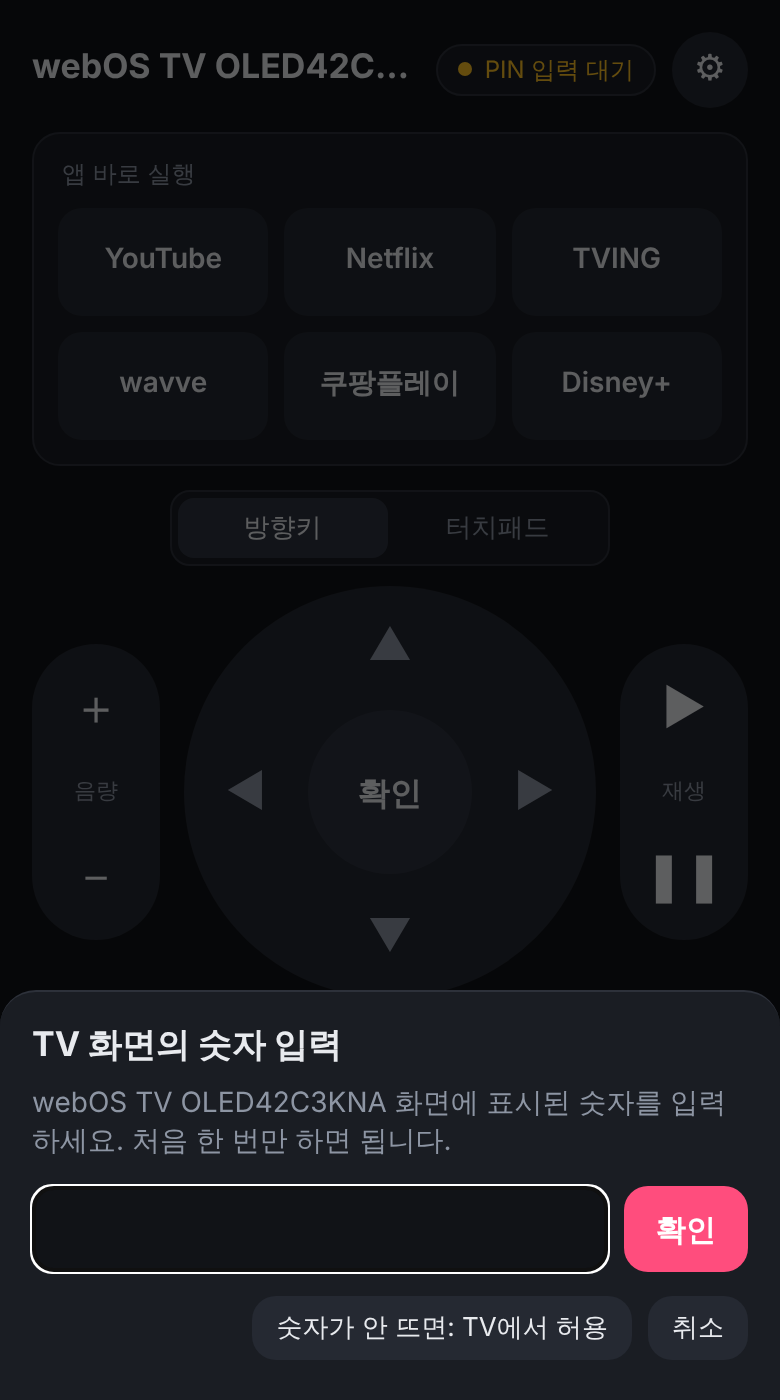
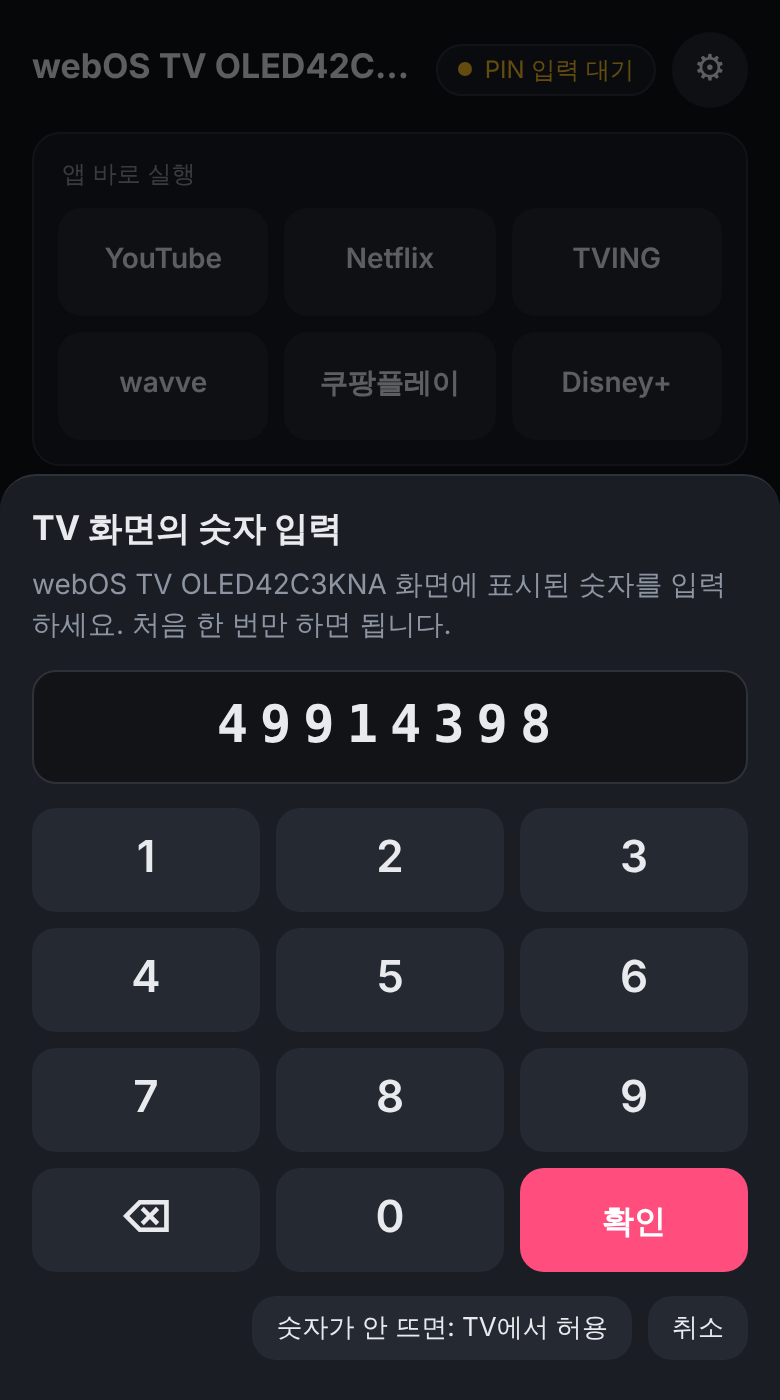
PIN 입력을 화면 숫자판(0~9, ⌫, 확인)으로 — 시스템 키보드를 띄우지 않음
- ⌫ 길게 누르면 전부 지우기, 숫자가 없으면 확인 비활성, 길이 제한 없음(최대 16)
- 실물 키보드 숫자·Backspace·Enter도 받음
- 틀린 PIN 안내 문장 부호 수정, README PIN 이미지·설명 갱신

Claude-Session: https://claude.ai/code/session_01YPuaTDTyQkfxuUHe5zyccf

Changed region(s): [[0.0, 0.3379, 1.0, 0.7371], [0.0308, 0.7371, 0.9538, 0.9214]]

diff --git a/app/src/main/assets/index.html b/app/src/main/assets/index.html
@@ -52,6 +52,14 @@ body.mode-pad .dpad{display:none}
 .tvrow .danger{color:var(--err)}
 .tvrow .danger.armed{background:var(--err);color:#fff}
 .sect{font-size:12px;color:var(--mut);margin:14px 0 8px 2px}
+/* PIN 숫자판 (시스템 키보드 대신) */
+.pinbox{font:600 26px/1.2 ui-monospace,Menlo,Consolas,monospace;letter-spacing:6px;text-align:center;padding:12px;
+  background:var(--bg);border:1px solid var(--line);border-radius:12px;min-height:56px;margin:4px 0 12px;word-break:break-all}
+.pinbox.empty{font:15px/1.9 inherit;letter-spacing:0;color:var(--mut)}
+.keypad{display:grid;grid-template-columns:repeat(3,1fr);gap:8px}
+.keypad button{height:52px;font-size:22px;font-weight:600}
+.keypad .ok{background:var(--acc);color:#fff;font-size:16px}
+.keypad .ok:active{background:#e23d6b}
 .speed{display:flex;align-items:center;gap:10px}
 .speed input{flex:1;padding:0}
 input{flex:1;min-width:0;background:var(--bg);border:1px solid var(--line);color:var(--fg);border-radius:10px;padding:10px 12px;font:inherit;user-select:text;-webkit-user-select:text}
@@ -275,15 +283,33 @@ footer{text-align:center;color:var(--mut);font-size:12px;margin-top:16px}
       '<div class="acts"><button class="btn-sm" data-act="cancel">취소</button></div>');
   }
   // 처음 등록: TV 화면에 뜬 숫자를 입력 (리모컨 불필요). 길이 제한 없음, 숫자만
+  // 숫자판으로 입력 (시스템 키보드를 띄우지 않음)
+  var pinVal = "";
   function showPin(msg) {
     var wrong = msg && msg.indexOf("맞지 않") >= 0;
+    pinVal = "";
+    var keys = ["1", "2", "3", "4", "5", "6", "7", "8", "9"].map(function (k) {
+      return '<button data-key="' + k + '">' + k + "</button>";
+    }).join("") + '<button data-key="back" aria-label="지우기">⌫</button><button data-key="0">0</button>' +
+      '<button class="ok" id="pinOk" data-act="sendPin">확인</button>';
     openSheet("pin", "<h2>TV 화면의 숫자 입력</h2><p>" +
-      esc(wrong ? msg + " 다시 입력하세요." : tvLabel(S.tv) + " 화면에 표시된 숫자를 입력하세요. 처음 한 번만 하면 됩니다.") + "</p>" +
-      '<div style="display:flex;gap:8px"><input id="pin" inputmode="numeric" pattern="[0-9]*" autocomplete="off">' +
-      '<button class="btn-acc" data-act="sendPin">확인</button></div>' +
+      esc(wrong ? msg.replace(/[.\s]*$/, "") + ". 다시 입력하세요." : tvLabel(S.tv) + " 화면에 표시된 숫자를 입력하세요. 처음 한 번만 하면 됩니다.") + "</p>" +
+      '<div class="pinbox" id="pinbox" aria-live="polite"></div><div class="keypad">' + keys + "</div>" +
       '<div class="acts"><button class="btn-sm" data-act="usePrompt">숫자가 안 뜨면: TV에서 허용</button>' +
       '<button class="btn-sm" data-act="cancel">취소</button></div>');
-    setTimeout(function () { var p = $("pin"); if (p) p.focus(); }, 50);
+    renderPin();
+  }
+  function renderPin() {
+    var box = $("pinbox"), ok = $("pinOk");
+    if (!box) return;
+    box.textContent = pinVal || "숫자 버튼을 누르세요";
+    box.classList.toggle("empty", !pinVal);
+    if (ok) ok.disabled = !pinVal;
+  }
+  function pinKey(k) {
+    if (k === "back") pinVal = pinVal.slice(0, -1);
+    else if (/^[0-9]$/.test(k) && pinVal.length < 16) pinVal += k;
+    renderPin();
   }
   // 인증서가 바뀜: 기존 키는 보내지 않고, 다시 등록하면 진짜 TV 화면에만 숫자가 뜬다
   function showCertChanged(d) {
@@ -471,6 +497,10 @@ footer{text-align:center;color:var(--mut);font-size:12px;margin-top:16px}
       showSettings();
       return;
     }
+    if (b.dataset.key) {
+      if (pinCleared) { pinCleared = false; return; }   // 길게 눌러 전부 지운 직후의 클릭은 무시
+      return pinKey(b.dataset.key);
+    }
     if (b.dataset.mode) return setMode(b.dataset.mode);
     if (b.dataset.launch) return call("ssap://system.launcher/launch", { id: b.dataset.launch });
     if (b.dataset.req) return call(b.dataset.req, null);
@@ -496,9 +526,8 @@ footer{text-align:center;color:var(--mut);font-size:12px;margin-top:16px}
       case "close": closeSheet(); break;
       case "cancel": closeSheet(); B.disconnect(); break;
       case "sendPin":
-        var pin = $("pin"), v = pin ? pin.value.replace(/\D/g, "") : "";
-        if (!v) { toast("TV 화면의 숫자를 입력하세요"); break; }
-        B.sendPin(v);
+        if (!pinVal) { toast("TV 화면의 숫자를 입력하세요"); break; }
+        B.sendPin(pinVal);
         break;
       case "usePrompt": closeSheet(); if (S.tv && S.tv.id) { S.conn = "connecting"; render(); B.connectPrompt(S.tv.id); } break;
       case "acceptCert": closeSheet(); if (S.tv) { B.acceptCert(S.tv.id); connectTv(S.tv); } break;
@@ -534,7 +563,24 @@ footer{text-align:center;color:var(--mut);font-size:12px;margin-top:16px}
   document.addEventListener("keydown", function (e) {
     if (e.key !== "Enter") return;
     if (e.target.id === "ip") act({ dataset: { act: "connectIp" } });
-    if (e.target.id === "pin") act({ dataset: { act: "sendPin" } });
+    if (S.sheet === "pin") act({ dataset: { act: "sendPin" } });
+  });
+
+  // ⌫ 길게 누르면 전부 지우기
+  var pinCleared = false, pinHold = null;
+  document.addEventListener("pointerdown", function (ev) {
+    var b = ev.target.closest && ev.target.closest('[data-key="back"]');
+    if (!b) return;
+    pinHold = setTimeout(function () { pinVal = ""; pinCleared = true; renderPin(); }, 500);
+  });
+  ["pointerup", "pointercancel", "pointerleave"].forEach(function (n) {
+    document.addEventListener(n, function () { clearTimeout(pinHold); }, true);
+  });
+  // 실물 키보드가 있으면 숫자·지우기도 받음
+  document.addEventListener("keydown", function (e) {
+    if (S.sheet !== "pin") return;
+    if (/^[0-9]$/.test(e.key)) pinKey(e.key);
+    else if (e.key === "Backspace") pinKey("back");
   });
 
   // 안드로이드 뒤로 키: 시트가 열려 있으면 닫기

diff --git a/README.md b/README.md
@@ -10,7 +10,7 @@ IR(적외선)이 아니라 TV가 열어 둔 **네트워크 제어 API**(`wss://T
 | 터치패드 모드 | 방향키 모드 | ⚙ 설정 | 첫 연결 (PIN) |
 |:---:|:---:|:---:|:---:|
 | <img src="docs/images/remote_touchpad.png" width="200" alt="터치패드 모드: 드래그로 TV 커서 이동"> | <img src="docs/images/remote_dpad.png" width="200" alt="방향키 모드"> | <img src="docs/images/settings.png" width="200" alt="설정 시트"> | <img src="docs/images/pin.png" width="200" alt="PIN 입력"> |
-| **드래그 = 커서 이동**<br>탭 = 클릭<br>두 손가락 = 스크롤 | 방향키·확인<br>길게 누르면 반복 | 저장된 TV·TV 찾기<br>IP 입력·커서 속도 | TV 화면의 숫자만 입력<br>(리모컨 불필요) |
+| **드래그 = 커서 이동**<br>탭 = 클릭<br>두 손가락 = 스크롤 | 방향키·확인<br>길게 누르면 반복 | 저장된 TV·TV 찾기<br>IP 입력·커서 속도 | TV 화면의 숫자를<br>숫자판으로 입력 (리모컨 불필요) |
 
 <sub>이미지는 앱의 실제 화면 파일(`app/src/main/assets/index.html`)을 예시 TV 데이터로 렌더링한 것. 터치패드 그림의 분홍 화살표는 손가락 드래그를 표시하기 위해 덧그린 것이다.</sub>
 
@@ -34,7 +34,7 @@ IR(적외선)이 아니라 TV가 열어 둔 **네트워크 제어 API**(`wss://T
 
 ### 연결
 - **자동 찾기**: 켜면 마지막 TV에 바로 연결, 처음이면 같은 네트워크에서 TV를 찾는다 (SSDP, IP 입력 불필요)
-- **첫 등록은 PIN**: TV 화면에 뜬 숫자만 폰에 입력 — 리모컨이 없어도 된다. 숫자가 안 뜨는 TV는 'TV에서 허용' 방식으로 전환
+- **첫 등록은 PIN**: TV 화면에 뜬 숫자를 앱의 **숫자판(0~9)**으로 입력 — 리모컨이 없어도 되고 키보드도 안 뜬다. 숫자가 안 뜨는 TV는 'TV에서 허용' 방식으로 전환
 - 한 번 등록하면 다음부터 자동 연결. TV IP가 바뀌어도 TV 고유값(uuid)으로 같은 TV를 알아본다
 - ⚙ 설정: 저장된 TV 연결 · 등록 해제(두 번 눌러) · TV 찾기 · IP 직접 입력 · 커서 속도
 
